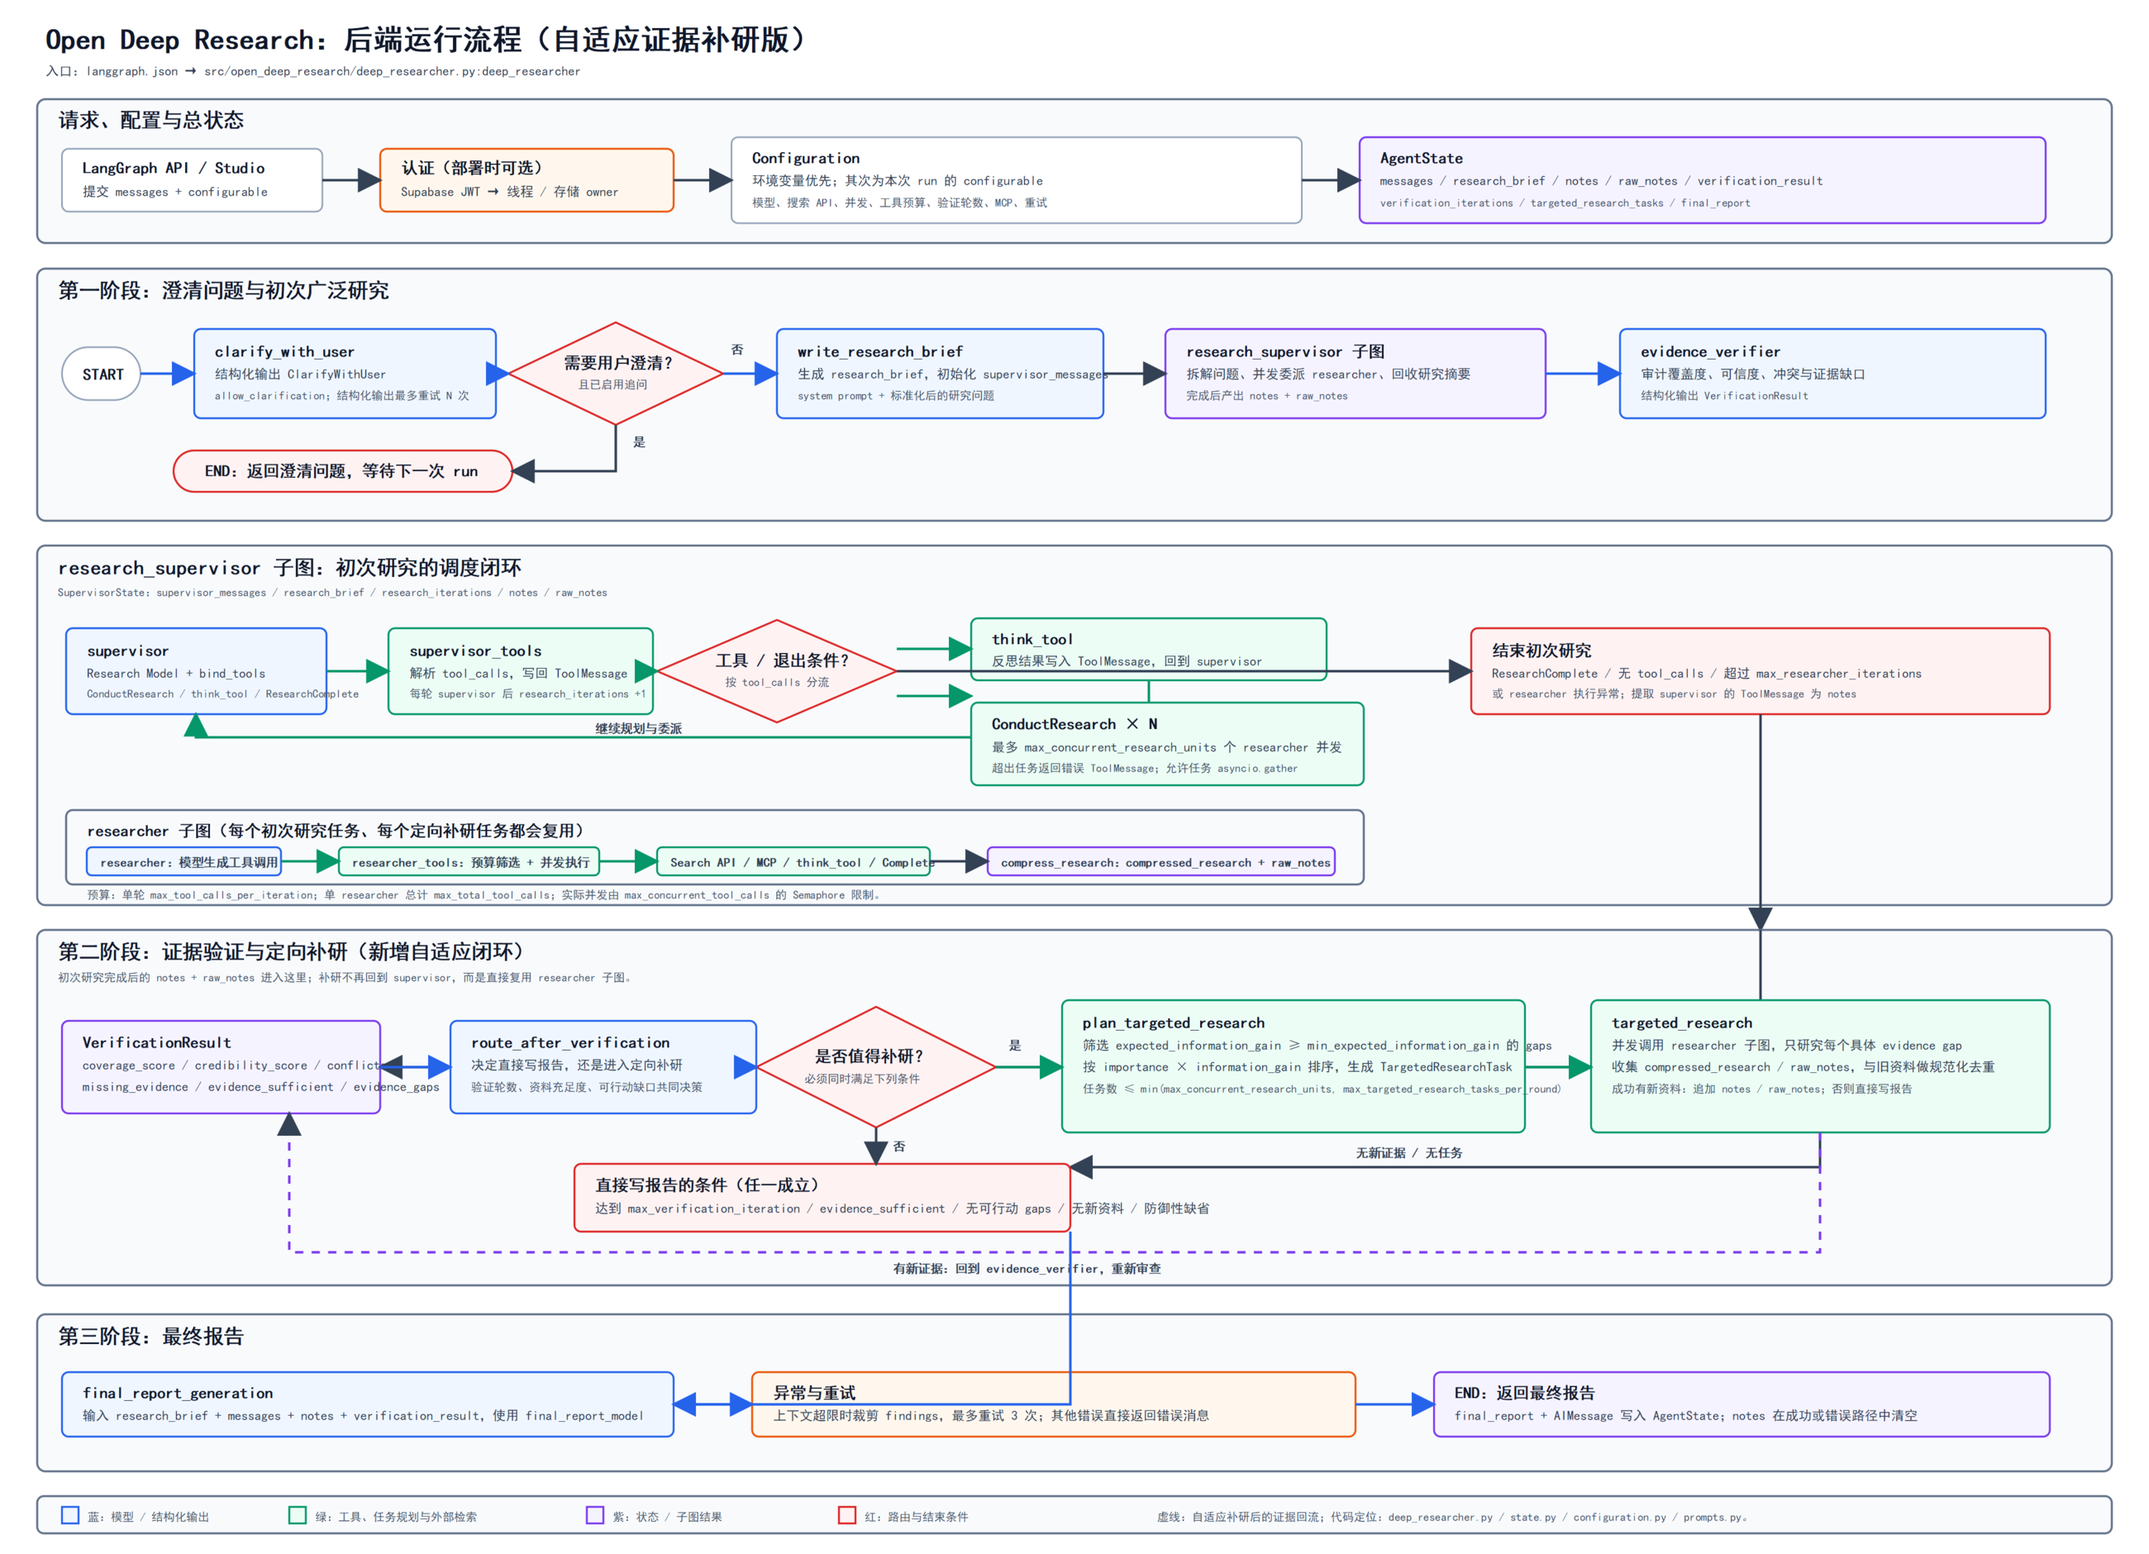
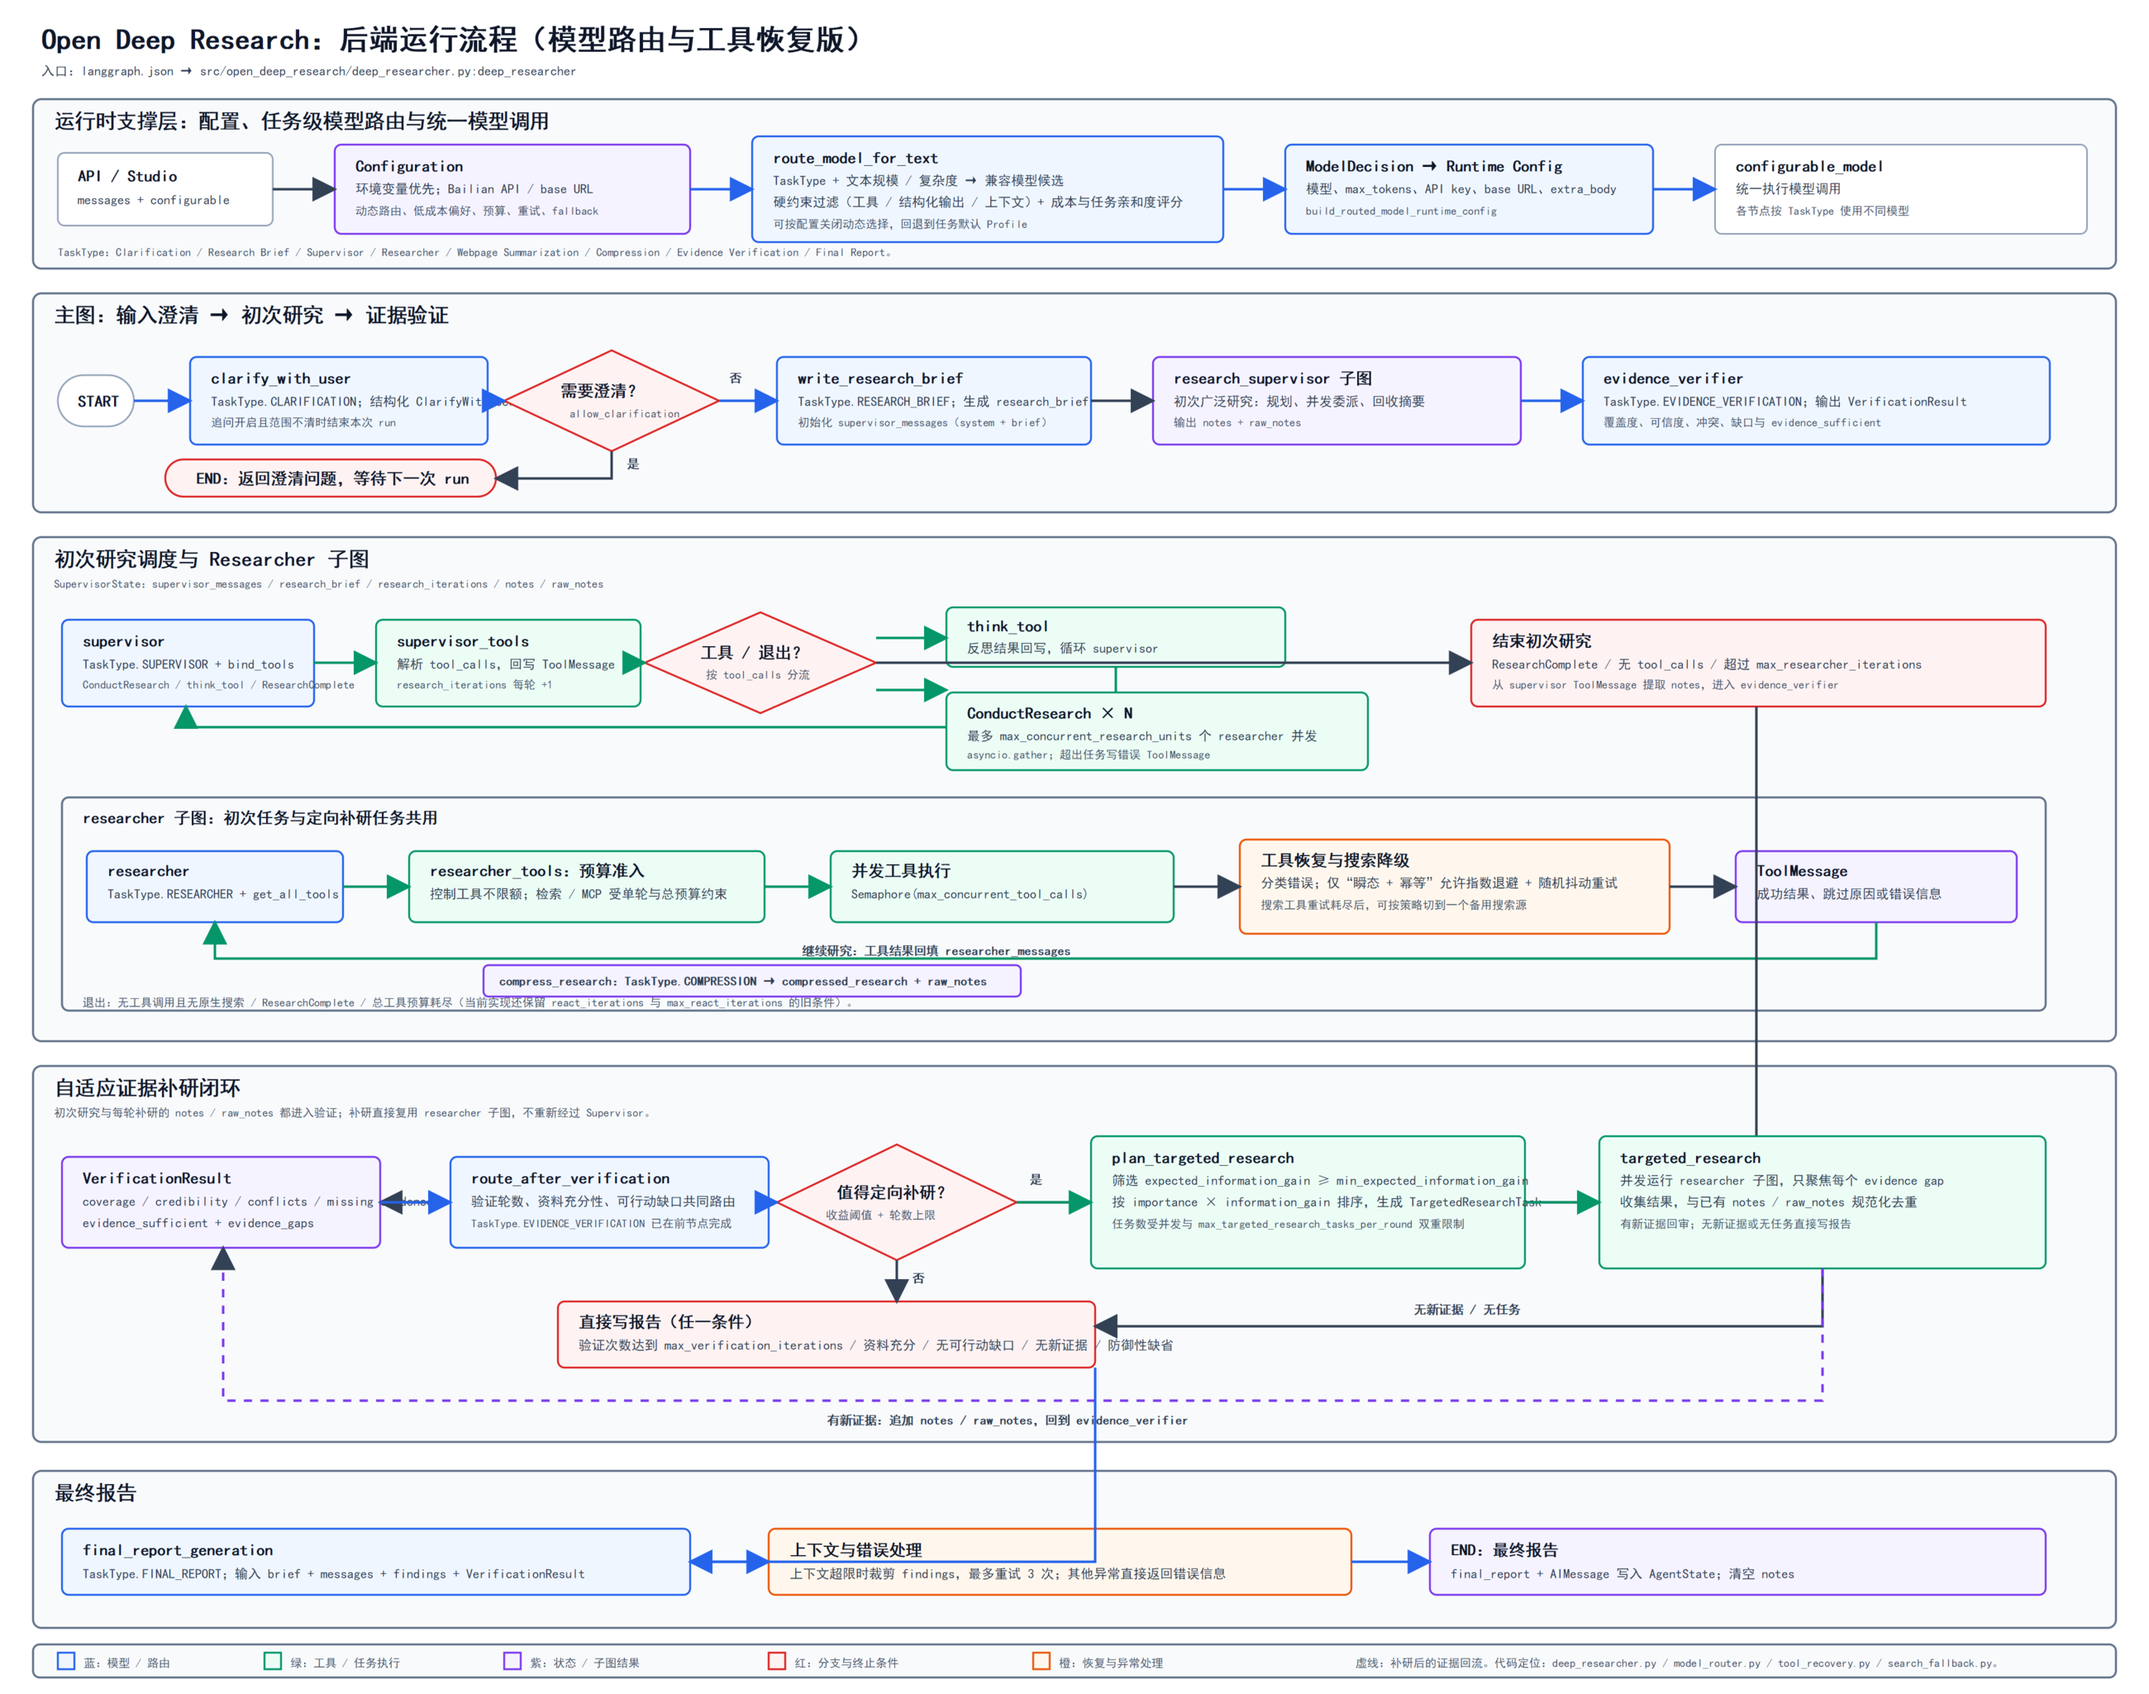
chore: finalize AskFlow docs and project cleanup

Changed region(s): [[0.0, 0.0, 0.9969, 1.0], [0.9346, 0.7096, 0.9658, 0.7404]]

diff --git a/backend/src/open_deep_research/configuration.py b/backend/src/open_deep_research/configuration.py
@@ -131,22 +131,6 @@ class Configuration(BaseModel):
             }
         },
     )
-    # 一个researcher最多迭代的次数
-    max_react_iterations: int = Field(
-        default=10,
-        metadata={
-            "x_oap_ui_config": {
-                "type": "slider",
-                "default": 10,
-                "min": 1,
-                "max": 30,
-                "step": 1,
-                "description": (
-                    "Maximum number of ReAct iterations for a single researcher."
-                ),
-            }
-        },
-    )
     # 在一个researcher一次迭代中允许调用预算型工具的数目
     max_tool_calls_per_iteration: int = Field(
         default=5,
@@ -196,19 +180,6 @@ class Configuration(BaseModel):
                     "Maximum number of tool calls that may execute "
                     "concurrently within a single researcher."
                 ),
-            }
-        },
-    )
-    max_react_tool_calls: int = Field(
-        default=10,
-        metadata={
-            "x_oap_ui_config": {
-                "type": "slider",
-                "default": 10,
-                "min": 1,
-                "max": 30,
-                "step": 1,
-                "description": "Maximum number of tool calling iterations to make in a single researcher step.",
             }
         },
     )

diff --git a/backend/src/open_deep_research/state.py b/backend/src/open_deep_research/state.py
@@ -237,12 +237,9 @@ class SupervisorState(TypedDict):
 class ResearcherState(TypedDict):
     """State for individual researchers conducting research."""
 
-    # 当前researcher迭代的次数.researcher调用LLM生成一组工具调用list就算做一次iteration
-    react_iterations: Annotated[int, operator.add] = 0
     # 预算型tool执行了的次数，即便执行失败了也算，并且这里如果execute_tool_safely中执行失败了重试，也不会额外增加，后续这里应该优化
     total_tool_calls: Annotated[int, operator.add] = 0
     researcher_messages: Annotated[list[MessageLikeRepresentation], operator.add]
-    tool_call_iterations: int = 0  # 后续删除当前字段
     # 当前research负责研究的具体主题
     research_topic: str
     # 压缩后的原始材料（这部分会交给supervisor）

diff --git a/backend/src/open_deep_research/deep_researcher.py b/backend/src/open_deep_research/deep_researcher.py
@@ -458,19 +458,6 @@ supervisor_builder.add_edge(START, "supervisor")  # Entry point to supervisor
 # Compile supervisor subgraph for use in main workflow
 supervisor_subgraph = supervisor_builder.compile()
 
-
-# 返回当前全局剩余可以调用预算型工具的次数
-def get_remaining_global_research_budget(
-    state,
-    config: RunnableConfig,
-) -> int:
-    configurable = Configuration.from_runnable_config(config)
-
-    used = state.get("total_research_tool_calls", 0)
-
-    return max(configurable.max_global_research_tool_calls - used, 0)  # 不希望返回负数
-
-
 async def researcher(
     state: ResearcherState, config: RunnableConfig
 ) -> Command[Literal["researcher_tools"]]:

diff --git a/backend/src/open_deep_research/tool_recovery.py b/backend/src/open_deep_research/tool_recovery.py
@@ -289,11 +289,6 @@ class ToolPolicy:
 
     # 是否允许 infrastructure-level retry(本身是否是值得重试的)
     retry_enabled: bool = True
-    
-CONTROL_TOOL_NAMES = {
-    "think_tool",
-    "ResearchComplete",
-}
 
 CONTROL_TOOL_NAMES = {
     "think_tool",
